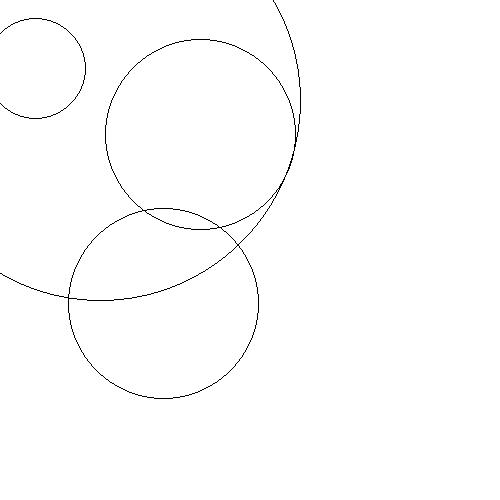
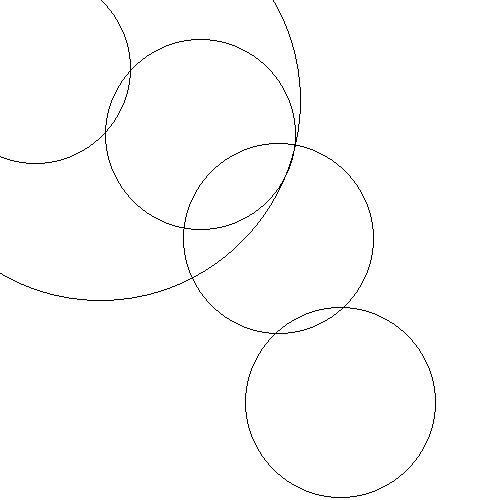
commit

diff --git a/Polygone.php b/Polygone.php
@@ -6,10 +6,57 @@
 //? we need to make sure that it does exist and can be load before being able to use it. Else (fatal error).
 
 require_once 'point.php';
+require_once 'figure.php';
+
 class Polygone extends Figure
 {
 
+    //* Constants of the class.
+    protected Point $cote;
+    protected Point $center;
+
+    //* Constructor of the class.
+    public function __construct(string $col, Point $cote, Point $centre)
+    {
+        parent::__construct($col, $centre);
+        $this->cote = $cote;
+    }
+
+    //* Accessors
+    public function getCote()
+    {
+        return $this->cote;
+    }
+
+    public function getCenter()
+    {
+        return $this->centre;
+    }
+
+    //*Setters
+    public function move($dx, $dy)
+    {
+        $this->centre->move($dx, $dy);
+    }
+
+    public function rotate(Point $cr, float $angle)
+    {
+        $this->centre->rotate($cr, $angle);
+    }
+
+    public function addCote(Point $cote)
+    {
+        $this->cote = $cote;
+    }
+
+    public function getNbCotes()
+    {
+        return count($this->cotes);
+    }
+
 }
+
+
 
 
 

diff --git a/script.php b/script.php
@@ -25,15 +25,19 @@
     $width = 500;
     $height = 500;
     $canvas = new Canvas($width, $height);
-
+    
     //* Create a circle with radius of 50 and a center of (100,100)
 
     $cercle1 = new Cercle('EEEEEE',200,  new Point(100, 100));
     // Create a circle with radius of 50 and a center of (35,68)
-    $cercle2 = new Cercle('0000FF',50,  new Point(35, 68));
+    $cercle2 = new Cercle('0000FF',95,  new Point(35, 68));
     $cercle3 = new Cercle('FFFFFF',95,  new Point(200, 134));
     $cercle4 = new Cercle('FFFFFF',95,  new Point(200, 134)); 
-    $cercle4->rotate(new Point(0, 180),-50);
+    $cercle4->rotate(new Point(95, 360),-75);
+    $cercle5 = new Cercle('FFFFFF',95,  new Point(210, 144));
+    $cercle5->rotate(new Point(80, 310),-32);
+
+
 
     //* Add the cercles to the canvas
 
@@ -41,10 +45,11 @@
     $canvas->drawCercle($cercle2);
     $canvas->drawCercle($cercle3);
     $canvas->drawCercle($cercle4);
+    $canvas->drawCercle($cercle5);
+    
 
     //! generate and save the image into the image folder
     $canvas->output();
-
 
     ?>
 

diff --git a/Cercle.php b/Cercle.php
@@ -2,7 +2,7 @@
 //! Child of "Figure"
 class Cercle extends Figure
 {
-    //* Constants
+    //* Constants of the class.
     protected float $rayon;
 
     //* Constructor
@@ -12,11 +12,10 @@ class Cercle extends Figure
         $this->rayon = $rayon;
     }
 
-    // * accessors
-
+    // * Accessors
     public function getCenter()
     {
-        return $this->centre;
+        return $this->centre;        
     }
 
     public function getRadius()
@@ -24,7 +23,7 @@ class Cercle extends Figure
         return $this->rayon;
     }
 
-    //* setters
+    //* Setters
     public function move($dx, $dy)
     {
         $this->centre->move($dx, $dy);
@@ -32,7 +31,7 @@ class Cercle extends Figure
 
     public function rotate(Point $cr, float $angle)
     {
-        $this->centre->rotate($cr,$angle);
+        $this->centre->rotate($cr, $angle);
     }
 }
 ?>
